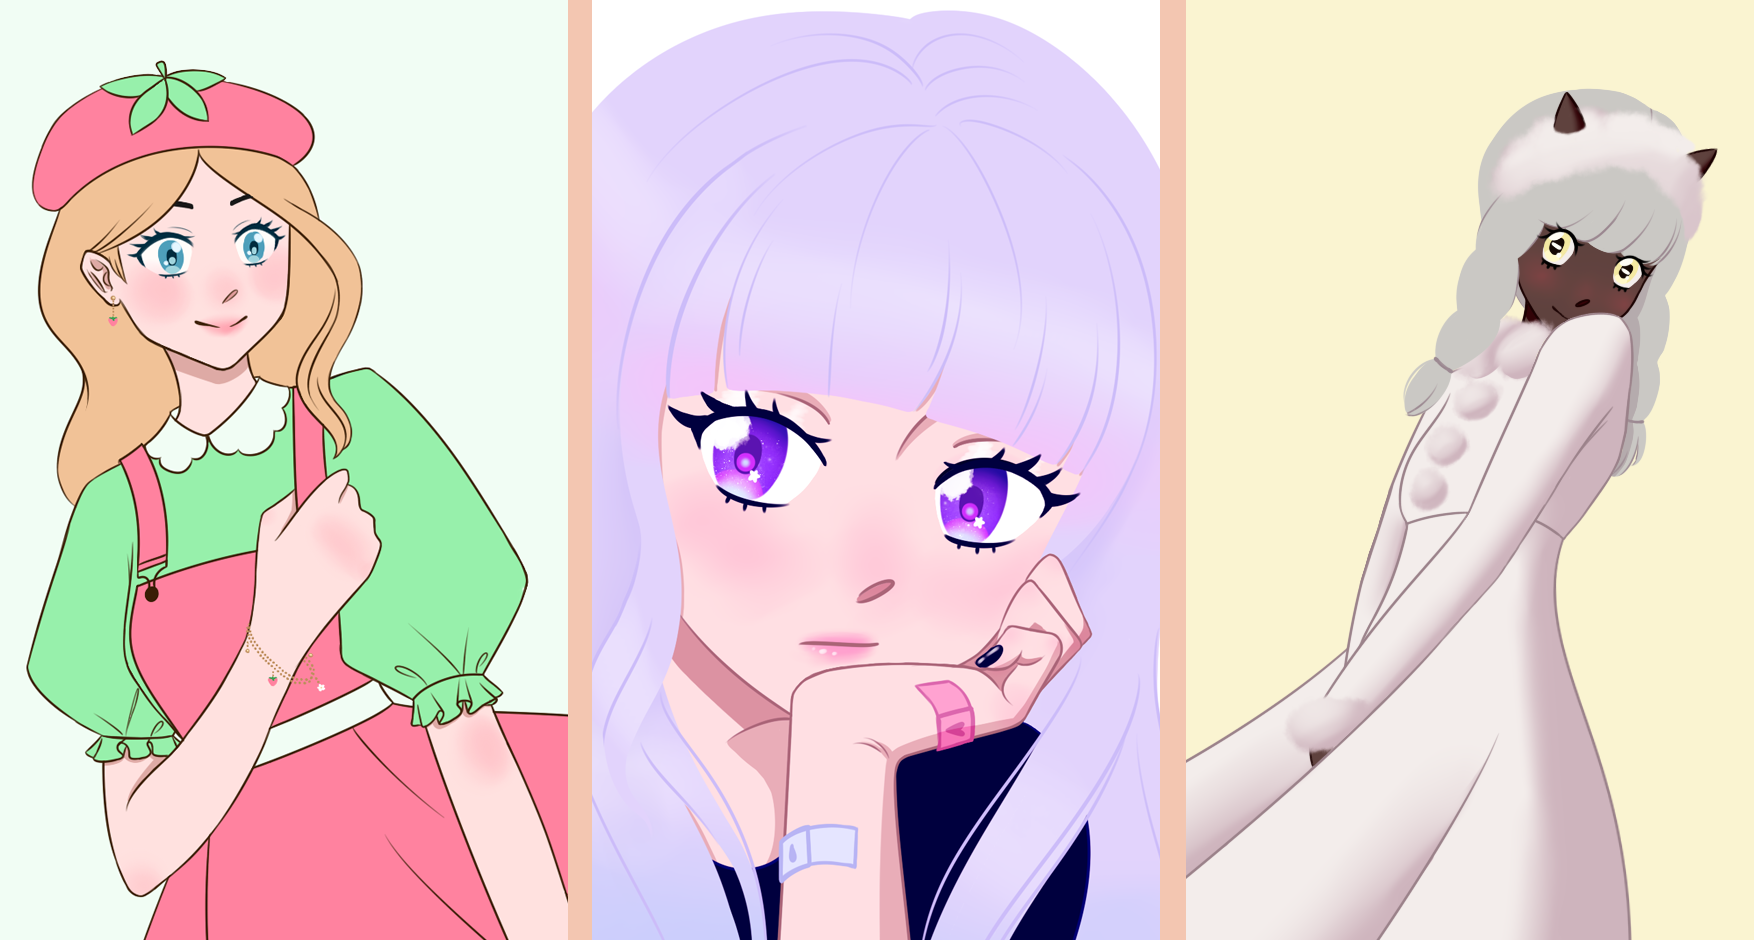
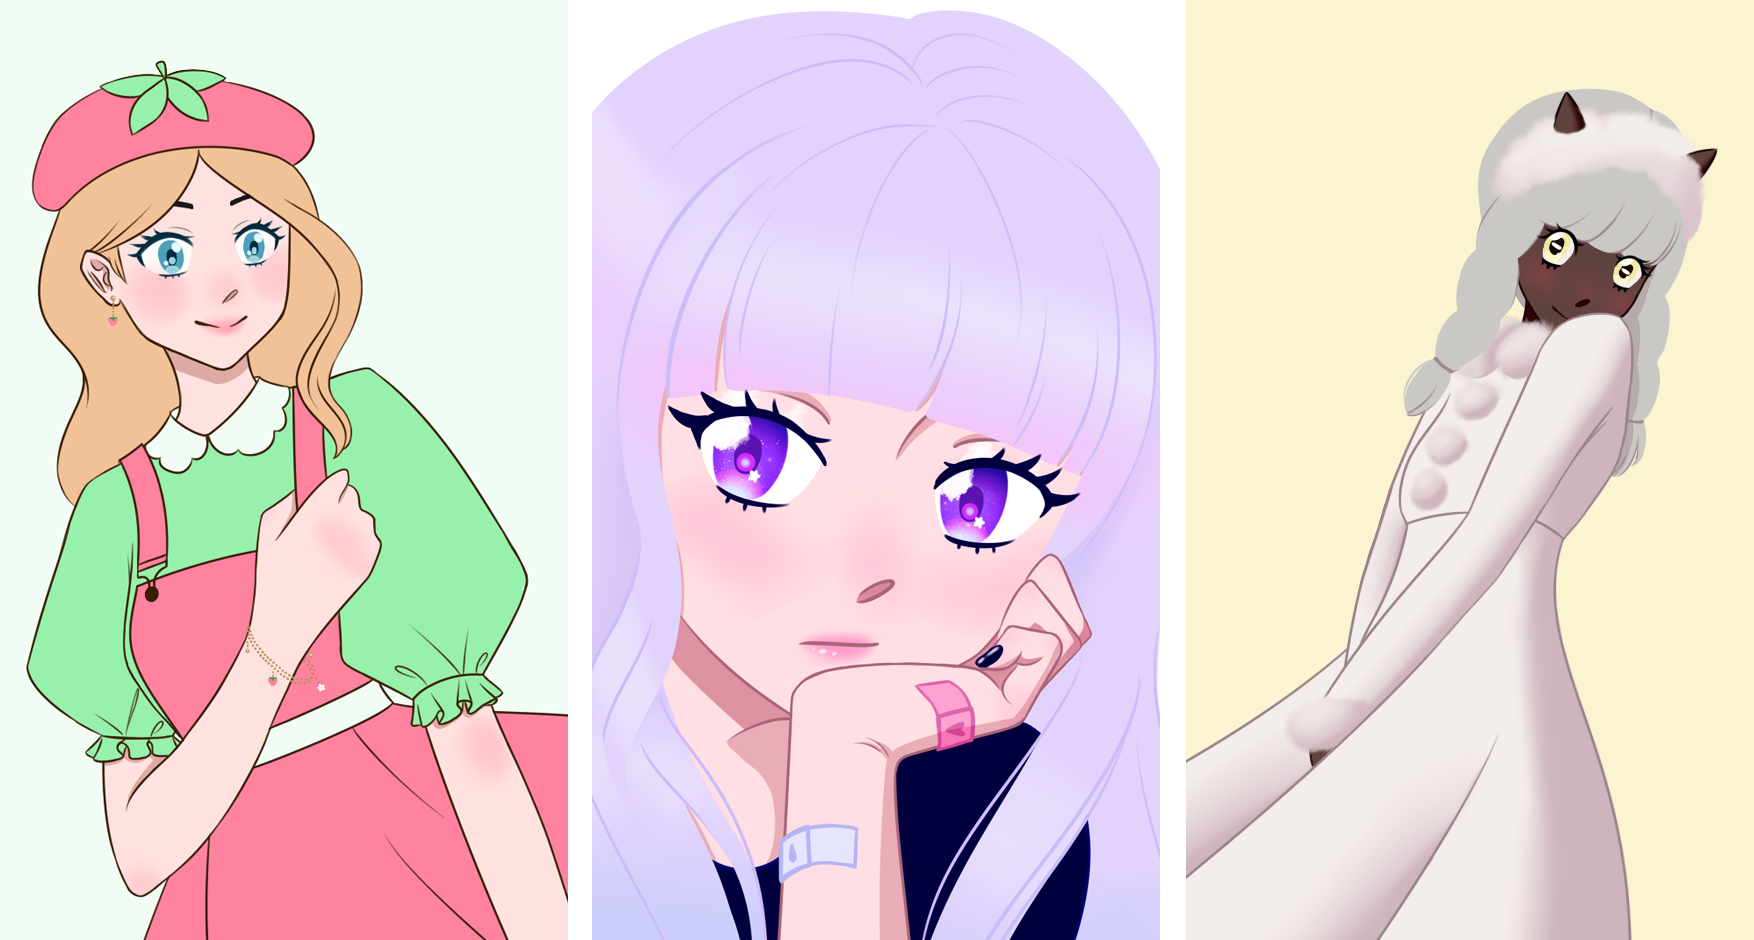
Farbe geändert

Changed region(s): [[0.6465, 0.0, 0.6773, 1.0], [0.3079, 0.0, 0.3387, 1.0]]

diff --git a/Portfolio2/about.html b/Portfolio2/about.html
@@ -3,12 +3,11 @@
 <head>
 <title>Portfolio</title>
 </head>
-<body style="background-color: #f3c6b1;">
-    <font face="Bahnschrift Light" color="#ffffff" size="4">
+<body style="background-color: #ffffff;">
+    <font face="Bahnschrift Light" color="#f3c6b1" size="4">
 
 <center>
-  <br>
-  <h1>Katharina | PeachPotchi</13></h1>
+    <h1>Katharina | PeachPotchi</13></h1>
     <a href=Start2.html>Startseite</a> &nbsp;&nbsp;&nbsp;&nbsp;
     <a href=portfolio.html>Portfolio</a> &nbsp;&nbsp;&nbsp;&nbsp;
     <a href=#>About Me</a> &nbsp;&nbsp;&nbsp;&nbsp;
@@ -28,7 +27,6 @@ Momentan studiere ich Medienkonzeption an der HFU.
 <br>
 <br>
 <a href="https://www.youtube.com/watch?v=dQw4w9WgXcQ"><img src="peach.png" width="25" height="25"></a>
-<br>
 </center>
 </body>
 </html> 

diff --git a/Portfolio2/contact.html b/Portfolio2/contact.html
@@ -3,12 +3,11 @@
 <head>
 <title>Portfolio</title>
 </head>
-<body style="background-color: #f3c6b1;">
-    <font face="Bahnschrift Light" color="#ffffff" size="4">
+<body style="background-color: #ffffff;">
+    <font face="Bahnschrift Light" color="#f3c6b1" size="4">
 
 <center>
-  <br>
-  <h1>Katharina | PeachPotchi</13></h1>
+    <h1>Katharina | PeachPotchi</13></h1>
     <a href=Start2.html>Startseite</a> &nbsp;&nbsp;&nbsp;&nbsp;
     <a href=portfolio.html>Portfolio</a> &nbsp;&nbsp;&nbsp;&nbsp;
     <a href=about.html>About Me</a> &nbsp;&nbsp;&nbsp;&nbsp;
@@ -24,7 +23,6 @@
 <br>
 <br>
 <a href="https://www.youtube.com/watch?v=dQw4w9WgXcQ"><img src="peach.png" width="25" height="25"></a>
-<br>
 </center>
 </body>
 </html> 

diff --git a/Portfolio2/portfolio.html b/Portfolio2/portfolio.html
@@ -3,12 +3,11 @@
 <head>
 <title>Portfolio</title>
 </head>
-<body style="background-color: #f3c6b1;">
-    <font face="Bahnschrift Light" color="#ffffff" size="4">
+<body style="background-color: #ffffff;">
+    <font face="Bahnschrift Light" color="#f3c6b1" size="4">
 
 <center>
-  <br>
-  <h1>Katharina | PeachPotchi</13></h1>
+    <h1>Katharina | PeachPotchi</13></h1>
     <a href=Start2.html>Startseite</a> &nbsp;&nbsp;&nbsp;&nbsp;
     <a href=#>Portfolio</a> &nbsp;&nbsp;&nbsp;&nbsp;
     <a href=about.html>About Me</a> &nbsp;&nbsp;&nbsp;&nbsp;
@@ -23,7 +22,6 @@
 <br>
 <br>
 <a href="https://www.youtube.com/watch?v=dQw4w9WgXcQ"><img src="peach.png" width="25" height="25"></a>
-<br>
 </center>
 </body>
 </html> 

diff --git a/Portfolio2/Start2.html b/Portfolio2/Start2.html
@@ -3,11 +3,10 @@
 <head>
 <title>Portfolio</title>
 </head>
-<body style="background-color: #f3c6b1;">
-    <font face="Bahnschrift Light" color="#ffffff" size="4">
+<body style="background-color: #ffffff;">
+    <font face="Bahnschrift Light" color="#f3c6b1" size="4">
 
 <center>
-  <br>
   <h1>Katharina | PeachPotchi</13></h1>
     <a href=#>Startseite</a> &nbsp;&nbsp;&nbsp;&nbsp;
     <a href="portfolio.html">Portfolio</a> &nbsp;&nbsp;&nbsp;&nbsp;
@@ -19,7 +18,6 @@
 <br>
 <br>
 <a href="https://www.youtube.com/watch?v=dQw4w9WgXcQ"><img src="peach.png" width="25" height="25"></a>
-<br>
 </center>
 </body>
 </html>                        
